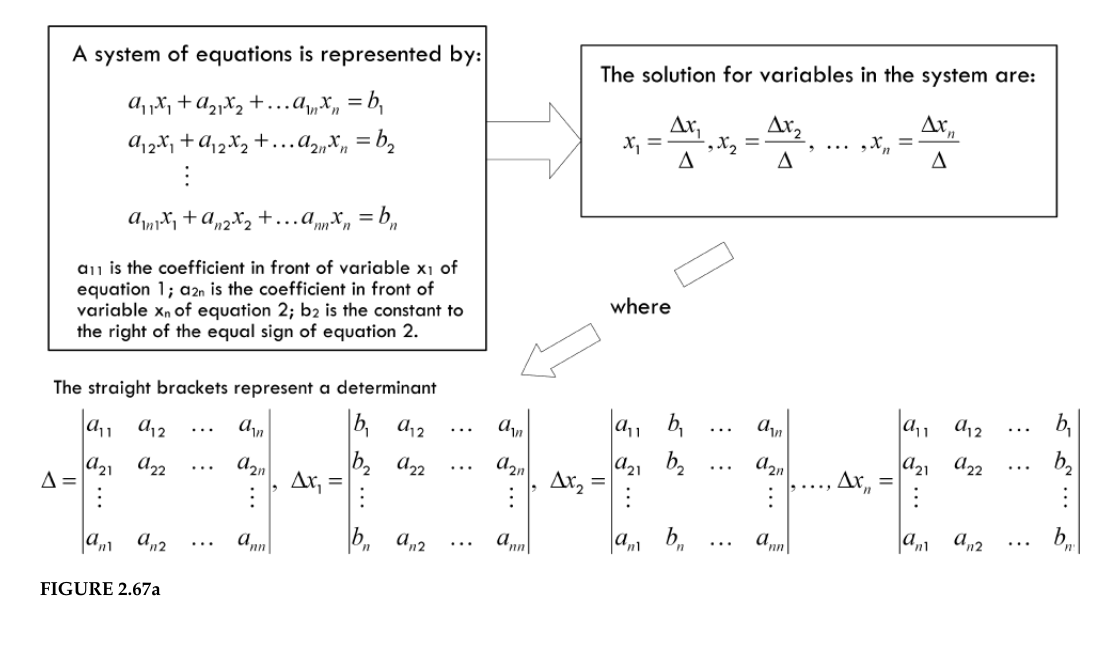
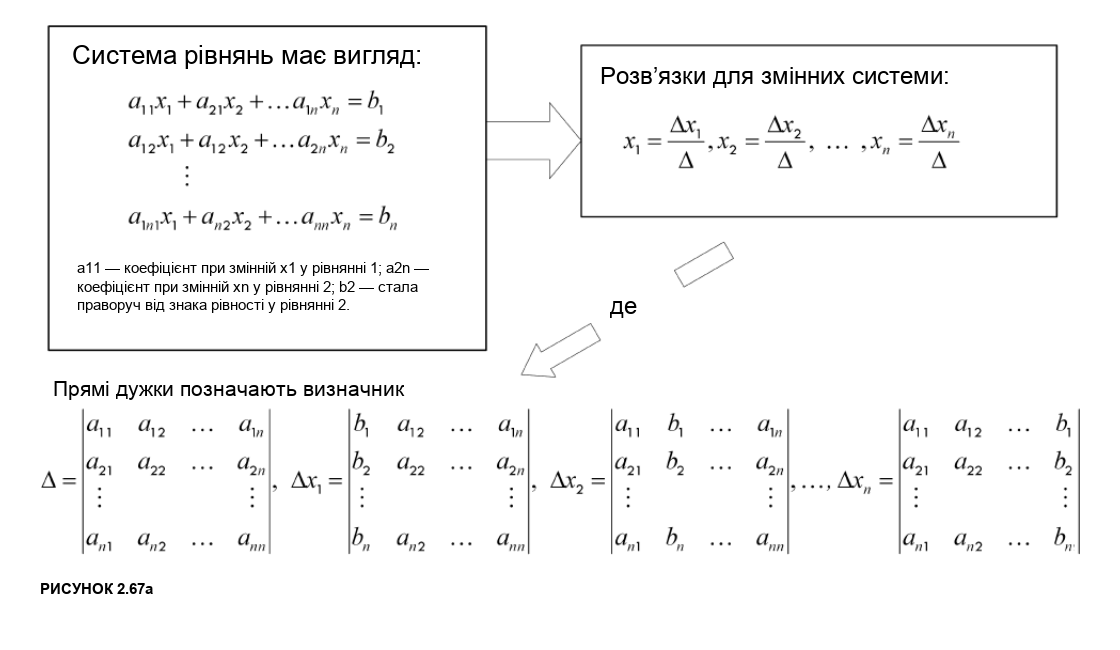
2.17: перевірка перекладу, виправлення тексту, переклад рисунків 2.63–2.69, V→U

diff --git a/Електроніка/2.17 Закони Кірхгофа.md b/Електроніка/2.17 Закони Кірхгофа.md
@@ -1,6 +1,3 @@
-# 2.17 Закони Кірхгофа
-
-## Повний переклад розділу
 
 Часто трапляються кола, які неможливо проаналізувати лише за допомогою простих методів зведення резистивних кіл. Навіть якщо за допомогою такого зведення вдалося б знайти еквівалентний опір, може виявитися неможливим визначити окремі струми крізь компоненти та напруги на них. Так само, якщо в колі є кілька джерел або складні мережі резисторів, закону Ома та рівнянь подільників струму й напруги може бути недостатньо. Саме тому ми звертаємося до законів Кірхгофа.
 
@@ -9,8 +6,8 @@
 **Закон напруг Кірхгофа (або правило контуру):** алгебраїчна сума напруг уздовж будь-якого замкненого контуру дорівнює нулю:
 
 $$
-\sum_{\text{замкнений контур}}\Delta V
-=V_1+V_2+\dots+V_n=0.
+\sum_{\text{замкнений контур}}\Delta U
+=U_1+U_2+\dots+U_n=0.
 \tag{2.20}
 $$
 
@@ -25,34 +22,14 @@ $$
 
 **Рисунок 2.63.** Застосування закону напруг Кірхгофа та правила вибору знаків.
 
-Рівняння контуру на рисунку:
+> [!note] Неточність у рисунку 2.63 оригіналу
+> В оригіналі для останнього правила (обхід від «+» до «−», тобто від $b$ до $a$) написано $\Delta U_{ab}=U_b-U_a=-3\ \text{В}$. Строго кажучи, обхід від $b$ до $a$ дає $\Delta U_{ba}=U_a-U_b=-3\ \text{В}$. Числовий результат ($-3\ \text{В}$) правильний, неточність лише в індексах.
 
-$$
-5\ \text{В}-IR_1+4\ \text{В}-IR_2-3\ \text{В}-IR_3=0.
-$$
-
-Правила обходу, показані на рисунку:
-
-- проходження резистора в напрямку струму: $\Delta V_{ab}=-IR$;
-- проходження резистора проти напрямку струму: $\Delta V_{ba}=+IR$;
-- проходження джерела від «мінуса» до «плюса»: $\Delta V_{ab}=V_b-V_a=+3\ \text{В}$;
-- проходження джерела від «плюса» до «мінуса»: $\Delta V_{ab}=V_b-V_a=-3\ \text{В}$.
-
-Як уже зазначалося, закон напруг Кірхгофа застосовний до будь-яких елементів кола — як лінійних, так і нелінійних. Наприклад, наведене далі досить штучне коло ілюструє застосування закону напруг Кірхгофа до кола, яке, крім резисторів і джерел постійної напруги, містить конденсатор, котушку індуктивності, нелінійний діод і джерело синусоїдальної напруги. Можна застосувати той самий обхід контуру, що й у попередньому прикладі, та скласти рівняння. Як бачимо, вирази, які описують зміни напруги на конденсаторі, котушці індуктивності та діоді, доволі складні, не кажучи вже про розв’язання отриманого диференціального рівняння. На практиці електроніку так не аналізують — існують спеціальні прийоми, — однак приклад демонструє універсальність закону Кірхгофа.
+Як уже зазначалося, закон напруг Кірхгофа застосовний до будь-яких елементів кола — як лінійних, так і нелінійних. Наприклад, наведене далі досить вигадане коло ілюструє застосування закону напруг Кірхгофа до кола, яке, крім резисторів і джерел постійної напруги, містить конденсатор, котушку індуктивності, нелінійний діод і джерело синусоїдальної напруги. Можна застосувати той самий обхід контуру, що й у попередньому прикладі, та скласти рівняння. Як бачимо, вирази, які описують зміни напруги на конденсаторі, котушці індуктивності та діоді, доволі складні, не кажучи вже про розв’язання отриманого диференціального рівняння. На практиці електроніку так не аналізують — існують спеціальні прийоми, — однак приклад демонструє універсальність закону Кірхгофа.
 
 ![[Зображення/Розділ 2/Рисунок 2.64 Закон Кірхгофа для нелінійного кола.png]]
 
 **Рисунок 2.64.** Закон напруг Кірхгофа для кола з резистором, конденсатором, котушкою індуктивності, діодом і синусоїдальним джерелом.
-
-Рівняння контуру, наведене на рисунку:
-
-$$
-10\sin(300t)-IR-\frac{1}{C}\int I\,dt
--L\frac{dI}{dt}
--0{,}026\ln\left(\frac{I}{I_S}+1\right)=0,
-$$
-
-де для показаної моделі діода $I_S=1\times10^{-12}\ \text{А}$.
 
 **Закон струмів Кірхгофа (або правило вузла):** сума струмів, що входять у вузол, дорівнює сумі струмів, які виходять із нього:
 
@@ -67,27 +44,15 @@ $$
 
 ### Приклад
 
-Застосовуючи закони Кірхгофа до наведеного нижче кола, знайдіть усі невідомі струми $I_1$, $I_2$, $I_3$, $I_4$, $I_5$, $I_6$, вважаючи відомими $R_1$, $R_2$, $R_3$, $R_4$, $R_5$, $R_6$ і $V_0$. Після цього падіння напруги на резисторах $V_1$, $V_2$, $V_3$, $V_4$, $V_5$ і $V_6$ можна знайти за законом Ома:
+Застосовуючи закони Кірхгофа до наведеного нижче кола, знайдіть усі невідомі струми $I_1$, $I_2$, $I_3$, $I_4$, $I_5$, $I_6$, вважаючи відомими $R_1$, $R_2$, $R_3$, $R_4$, $R_5$, $R_6$ і $U_0$. Після цього падіння напруги на резисторах $U_1$, $U_2$, $U_3$, $U_4$, $U_5$ і $U_6$ можна знайти за законом Ома:
 
 $$
-V_n=I_nR_n.
+U_n=I_nR_n.
 $$
 
 ![[Зображення/Розділ 2/Рисунок 2.65 Мостова резистивна схема.png]]
 
 **Рисунок 2.65.** Мостова резистивна схема з відомими величинами
-
-$$
-R_1=1\ \Omega,\quad
-R_2=2\ \Omega,\quad
-R_3=3\ \Omega,\quad
-R_4=4\ \Omega,\quad
-R_5=5\ \Omega,\quad
-R_6=6\ \Omega,\quad
-V_0=10\ \text{В},
-$$
-
-та невідомими струмами $I_1$–$I_6$ і напругами $V_1$–$V_6$.
 
 **Відповідь.** Щоб розв’язати цю задачу, застосовують закон напруг Кірхгофа до достатньої кількості замкнених контурів, а закон струмів Кірхгофа — до достатньої кількості вузлів, щоб отримати стільки рівнянь, скільки є невідомих. Після цього залишається виконати алгебраїчні перетворення. На рисунку 2.66 показано, як застосувати закони й скласти остаточні рівняння.
 
@@ -95,46 +60,12 @@ $$
 
 **Рисунок 2.66.** Вибрані вузли й контури та рівняння, отримані із законів Кірхгофа.
 
-Рівняння, отримані за законом струмів Кірхгофа:
-
-$$
-I_1=I_2+I_3
-\qquad\text{(вузол a)},
-$$
-
-$$
-I_2=I_5+I_4
-\qquad\text{(вузол b)},
-$$
-
-$$
-I_6=I_3+I_4
-\qquad\text{(вузол c)}.
-$$
-
-Рівняння, отримані за законом напруг Кірхгофа:
-
-$$
-V_0-I_1R_1-I_2R_2-I_5R_5=0
-\qquad\text{(контур 1)},
-$$
-
-$$
--I_3R_3+I_4R_4+I_2R_2=0
-\qquad\text{(контур 2)},
-$$
-
-$$
--I_6R_6+I_5R_5-I_4R_4=0
-\qquad\text{(контур 3)}.
-$$
-
-На рисунку 2.66 є шість рівнянь і шість невідомих. Згідно з правилами алгебри, коли кількість рівнянь дорівнює кількості невідомих, зазвичай можна визначити ці невідомі. Автори пропонують три способи розв’язання. Перший — старий метод «підставляй і рахуй», більш відомий як метод підстановки: рівняння об’єднують, знаходять одну невідому, підставляють її в інше рівняння тощо. Другий, значно охайніший і, можливо, простіший спосіб — використання матриць. У підручнику з лінійної алгебри можна знайти все необхідне про застосування матриць для визначення невідомих.
+На рисунку 2.66 є шість рівнянь і шість невідомих. Згідно з правилами алгебри, коли кількість рівнянь дорівнює кількості невідомих, зазвичай можна визначити ці невідомі. Ми можемо запропонувати три способи розв’язання. Перший — старий метод «підставляй і рахуй», більш відомий як метод підстановки: рівняння об’єднують, знаходять одну невідому, підставляють її в інше рівняння тощо. Другий, значно охайніший і, можливо, простіший спосіб — використання матриць. У підручнику з лінійної алгебри можна знайти все необхідне про застосування матриць для визначення невідомих.
 
 > [!note] Важливість кількості незалежних рівнянь
 > Щоб система мала єдиний розв’язок, кількість **незалежних** рівнянь мусить дорівнювати кількості невідомих. Якщо рівняння залежні (одне випливає з інших), система може мати нескінченно багато розв’язків або не мати жодного. Для мостової схеми: 3 вузлових рівняння + 3 контурних рівняння = 6 рівнянь для 6 невідомих струмів — це забезпечує однозначний розв’язок.
 
-Третій метод, який автори вважають практично корисним, використовує визначники та правило Крамера. Привабливість цього прийому полягає в тому, що не обов’язково знати всю математику — за умови, що є комп’ютерна математична програма або калькулятор, який обчислює визначники. Потрібно лише ввести числа в таблицю — визначник — і натиснути кнопку обчислення. Автори не хочуть витрачати надто багато часу на цю техніку, тому просто наводять рівняння й використовують їх, щоб знайти один із розв’язків задачи з резистивним колом. Див. рисунок 2.67a.
+Третій метод, який, на наш погляд, практично корисний, використовує прийом із визначниками та правилом Крамера. Привабливість цього прийому полягає в тому, що не потрібно знати жодної математики — за умови, що є комп’ютерна математична програма або калькулятор, який обчислює визначники. Потрібно лише ввести числа в таблицю — визначник — і натиснути «дорівнює». Ми не хочемо витрачати надто багато часу на цю техніку, тому просто наведемо рівняння й використаємо їх, щоб знайти один із розв’язків задачі з резистивним колом. Див. рисунок 2.67a.
 
 > [!note] Практичне застосування на комп’ютерах
 > На практиці сучасні програми для симуляції кіл (SPICE, MultiSim, LTspice) розв’язують системи лінійних рівнянь Кірхгофа автоматично за допомогою чисельних методів (LU-розкладання, Гаусівське виключення тощо). Ручне розрахування через визначники — це вправа для розуміння принципу. У реальній роботі електрика чи інженера розрахування за правилом Крамера рідко виконується вручну, натомість використовуються комп’ютерні інструменти, які роблять це миттєво.
@@ -143,29 +74,8 @@ $$
 
 **Рисунок 2.67a.** Загальне представлення системи рівнянь і правило Крамера.
 
-Систему рівнянь подано у вигляді:
-
-$$
-\begin{aligned}
-a_{11}x_1+a_{12}x_2+\dots+a_{1n}x_n&=b_1,\\
-a_{21}x_1+a_{22}x_2+\dots+a_{2n}x_n&=b_2,\\
-&\ \vdots\\
-a_{n1}x_1+a_{n2}x_2+\dots+a_{nn}x_n&=b_n.
-\end{aligned}
-$$
-
-Тут $a_{11}$ — коефіцієнт при змінній $x_1$ у першому рівнянні; $a_{2n}$ — коефіцієнт при змінній $x_n$ у другому рівнянні; $b_2$ — стала праворуч від знака рівності у другому рівнянні.
-
-Розв’язки змінних системи:
-
-$$
-x_1=\frac{\Delta x_1}{\Delta},\qquad
-x_2=\frac{\Delta x_2}{\Delta},\qquad
-\dots,\qquad
-x_n=\frac{\Delta x_n}{\Delta}.
-$$
-
-Прямі вертикальні дужки позначають визначник. $\Delta$ — визначник матриці коефіцієнтів, а в $\Delta x_k$ стовпець коефіцієнтів змінної $x_k$ замінюють стовпцем сталих $b$.
+> [!note] Індекси в рисунку 2.67a оригіналу
+> На рисунку в оригіналі помилка в індексах: у першому рівнянні написано $a_{21}x_2$, у другому — $a_{12}x_1$. Правильний стандартний запис ($a_{12}x_2$ і $a_{21}x_1$: перший індекс — номер рівняння, другий — номер змінної). Це узгоджується з поясненням на рисунку про $a_{2n}$.
 
 Наприклад, $\Delta$ для системи рівнянь резистивної задачі можна знайти, ввівши всі коефіцієнти у визначник і натиснувши кнопку обчислення на калькуляторі або комп’ютері. Див. рисунок 2.67b.
 
@@ -201,7 +111,7 @@ $$
 
 ![[Зображення/Розділ 2/Рисунок 2.67c Обчислення струму I5.png]]
 
-**Рисунок 2.67c.** Обчислення $I_5$ і $V_5$ за правилом Крамера.
+**Рисунок 2.67c.** Обчислення $I_5$ і $U_5$ за правилом Крамера.
 
 $$
 \Delta I_5=
@@ -223,7 +133,7 @@ I_5=\frac{\Delta I_5}{\Delta}
 $$
 
 $$
-V_5=I_5R_5
+U_5=I_5R_5
 =(1{,}124\ \text{А})(5\ \Omega)
 =5{,}62\ \text{В}.
 $$
@@ -236,16 +146,16 @@ $$
 
 **Рисунок 2.68.** Симуляція мостової схеми та отримані результати.
 
-Тривалі обчислення є корисною теоретичною вправою, але на практиці автори називають їх марнуванням часу. Таку задачу можна розв’язати в симуляторі лише за кілька хвилин. Результати симуляції:
+Тривалі обчислення є корисною теоретичною вправою, але на практиці це марнування часу. Таку задачу можна розв’язати в симуляторі лише за кілька хвилин. Результати симуляції:
 
 $$
 \begin{aligned}
-V_1&=2{,}027\ \text{В}, & I_1&=2{,}027\ \text{А},\\
-V_2&=2{,}351\ \text{В}, & I_2&=1{,}175\ \text{А},\\
-V_3&=2{,}555\ \text{В}, & I_3&=0{,}852\ \text{А},\\
-V_4&=0{,}204\ \text{В}, & I_4&=0{,}051\ \text{А},\\
-V_5&=5{,}622\ \text{В}, & I_5&=1{,}124\ \text{А},\\
-V_6&=5{,}417\ \text{В}, & I_6&=0{,}903\ \text{А}.
+U_1&=2{,}027\ \text{В}, & I_1&=2{,}027\ \text{А},\\
+U_2&=2{,}351\ \text{В}, & I_2&=1{,}175\ \text{А},\\
+U_3&=2{,}555\ \text{В}, & I_3&=0{,}852\ \text{А},\\
+U_4&=0{,}204\ \text{В}, & I_4&=0{,}051\ \text{А},\\
+U_5&=5{,}622\ \text{В}, & I_5&=1{,}124\ \text{А},\\
+U_6&=5{,}417\ \text{В}, & I_6&=0{,}903\ \text{А}.
 \end{aligned}
 $$
 
@@ -255,7 +165,7 @@ $$
 
 **Рисунок 2.69.** Закони напруг і струмів Кірхгофа в дії. Ліва схема показує падіння напруг та потенціали точок відносно землі $0\ \text{В}$; права — розподіл струмів у вузлах.
 
-Перш ніж надто захоплюватися рівняннями або, навпаки, одразу покладатися на симулятор, варто ознайомитися зі спеціальною теоремою, відомою як теорема Тевенена. У ній застосовують цікаві прийоми аналізу кіл, які можуть допомогти уникнути систем рівнянь або необхідності використовувати симуляцію. Теорема Тевенена використовує так звану теорему суперпозиції, яку спочатку й потрібно розглянути.
+Перш ніж надто захоплюватися рівняннями або лінуватися, хапаючись за симулятор, варто ознайомитися зі спеціальною теоремою, відомою як теорема Тевенена. У ній застосовують цікаві прийоми аналізу кіл, які можуть допомогти уникнути систем рівнянь або необхідності використовувати симуляцію. Теорема Тевенена використовує так звану теорему суперпозиції, яку спочатку й потрібно розглянути.
 
 ## Примітки до оригіналу
 
@@ -288,7 +198,7 @@ $$
 **Закон напруг Кірхгофа — для контуру:**
 
 $$
-\sum_{\text{контур}}\Delta V=0.
+\sum_{\text{контур}}\Delta U=0.
 $$
 
 Перший закон випливає зі збереження заряду, другий — зі збереження енергії.
@@ -299,8 +209,8 @@ $$
 |---|---|
 | Через резистор у напрямку струму | $-IR$ |
 | Через резистор проти струму | $+IR$ |
-| Через джерело від «−» до «+» | $+V$ |
-| Через джерело від «+» до «−» | $-V$ |
+| Через джерело від «−» до «+» | $+U$ |
+| Через джерело від «+» до «−» | $-U$ |
 
 Напрямок обходу та початкові напрямки невідомих струмів можна вибрати довільно. Від’ємний результат означає, що справжній напрямок протилежний вибраному.
 
@@ -310,7 +220,7 @@ $$
 2. Довільно задайте напрямки невідомих струмів.
 3. Запишіть незалежні рівняння закону струмів для вузлів.
 4. Виберіть незалежні контури й запишіть рівняння закону напруг.
-5. Замініть напруги на резисторах виразами $V=IR$.
+5. Замініть напруги на резисторах виразами $U=IR$.
 6. Розв’яжіть отриману систему підстановкою, матрицями або іншим методом.
 7. Перевірте результат, повторно підставивши значення у вузлові й контурні рівняння.
 
